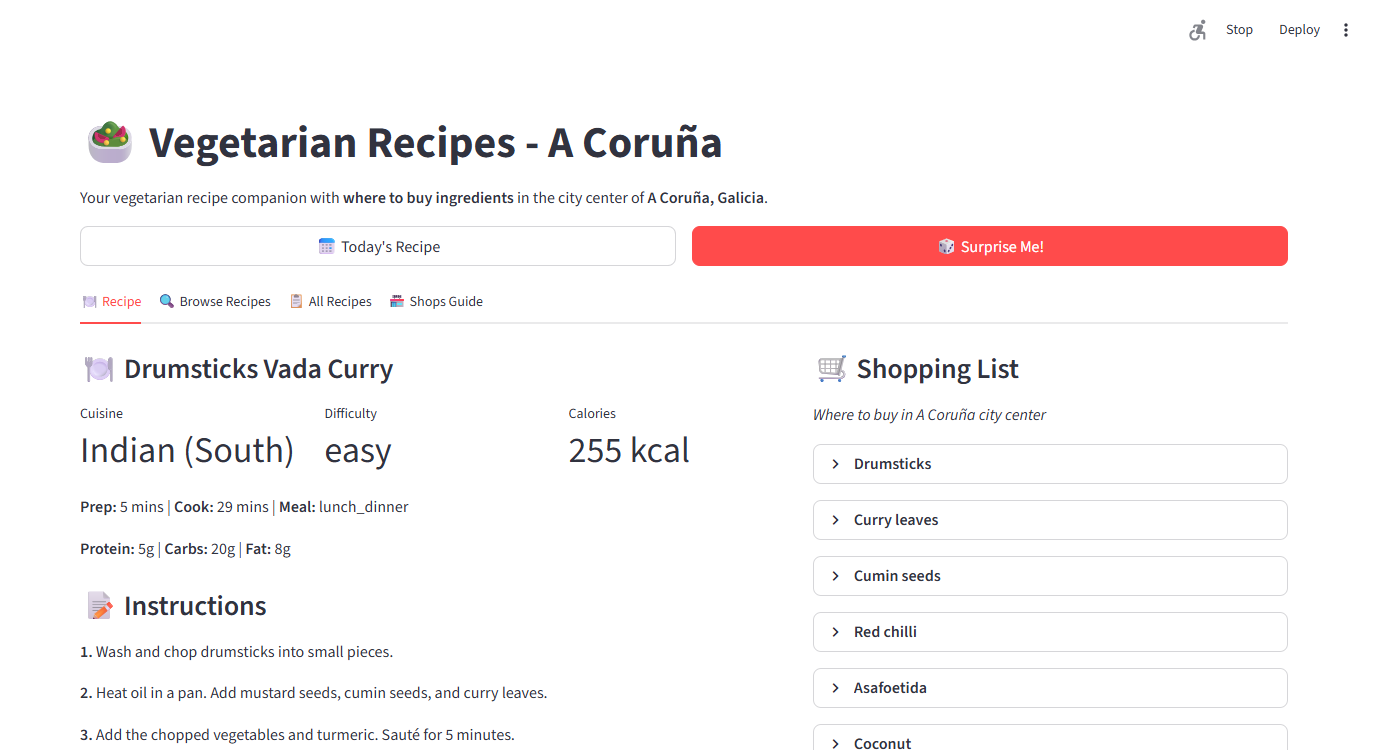
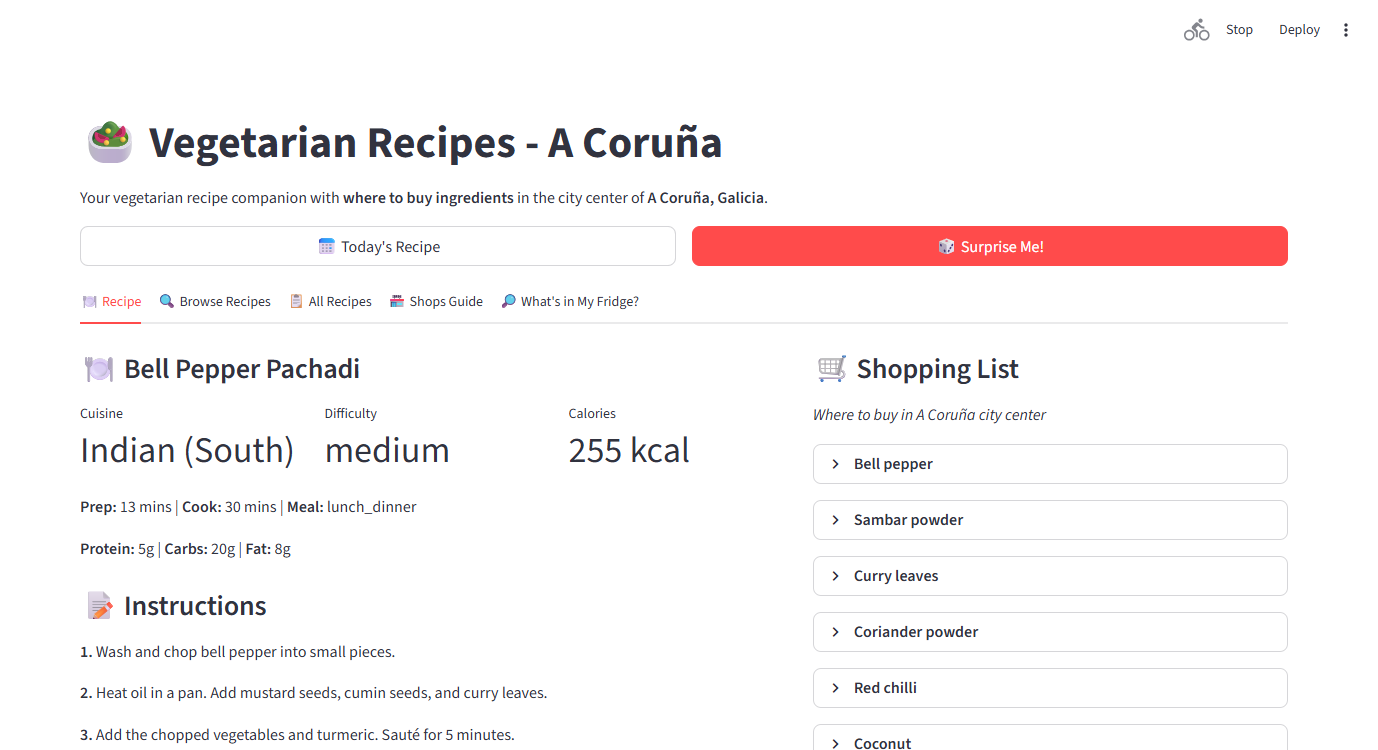
Add 'What's in My Fridge?' ingredient search (AI ingredient matcher)

diff --git a/app.py b/app.py
@@ -71,7 +71,7 @@ with col_right:
         st.session_state.recipe_source = "random"
         st.rerun()
 
-tab1, tab2, tab3, tab4 = st.tabs(["🍽️ Recipe", "🔍 Browse Recipes", "📋 All Recipes", "🏪 Shops Guide"])
+tab1, tab2, tab3, tab4, tab5 = st.tabs(["🍽️ Recipe", "🔍 Browse Recipes", "📋 All Recipes", "🏪 Shops Guide", "🔎 What's in My Fridge?"])
 
 with tab1:
     show_recipe(st.session_state.recipe, st.session_state.recipe_source)
@@ -151,6 +151,38 @@ with tab4:
                 with st.expander("What they sell"):
                     for s in sorted(set(shop['sells'])):
                         st.markdown(f"- {s}")
+
+with tab5:
+    st.subheader("🔎 What's in My Fridge?")
+    st.markdown("Tell me what ingredients you have, and I'll suggest recipes you can make!")
+
+    user_ings = st.text_input("Enter your ingredients (separated by spaces or commas)", placeholder="e.g. chickpeas spinach onion tomato garlic")
+    top_n = st.slider("Number of suggestions", 3, 20, 8)
+
+    if user_ings:
+        results = engine.find_recipes_by_ingredients(user_ings)
+        if not results:
+            st.warning("No recipes found with those ingredients. Try adding more common items like onion, garlic, tomato, rice.")
+        else:
+            st.success(f"Found {len(results)} matching recipes!")
+            for i, (score, matches, recipe) in enumerate(results[:top_n]):
+                match_pct = int(score * 100)
+                with st.container(border=True):
+                    cols = st.columns([1, 3, 1])
+                    with cols[0]:
+                        st.markdown(f"### {recipe['id']}")
+                    with cols[1]:
+                        st.markdown(f"**{recipe['name']}**  \n{recipe['cuisine']} | {recipe['meal_type']} | ⏱ {recipe['prep_time']} + {recipe['cook_time']}")
+                        st.markdown(f"**Ingredients you have:** {', '.join(recipe['ingredients'])}")
+                    with cols[2]:
+                        st.markdown(f"**{match_pct}%** match")
+                        st.progress(min(match_pct, 100))
+                        if st.button("View Recipe", key=f"fridge_view_{recipe['id']}"):
+                            st.session_state.recipe = recipe
+                            st.session_state.recipe_source = "fridge"
+                            st.rerun()
+    else:
+        st.info("Try: `chickpeas spinach onion tomato garlic` or `paneer spinach cream` or `lentils rice carrot`")
 
 st.sidebar.markdown("## 🥗 VegRecipe AI Agent")
 st.sidebar.markdown("Your daily vegetarian recipe companion for **A Coruña, Galicia**.")

diff --git a/main.py b/main.py
@@ -69,6 +69,21 @@ def main():
             if count > 1:
                 print(f"Showing {count} random recipes (use a number to get more, e.g. 'random 5')")
 
+        elif cmd == "with" or cmd == "by-ingredients":
+            if len(sys.argv) > 2:
+                user_input = " ".join(sys.argv[2:])
+                results = engine.find_recipes_by_ingredients(user_input)
+                if not results:
+                    print("No recipes found with those ingredients.")
+                else:
+                    print(f"\nFound {len(results)} matching recipes:\n")
+                    for i, (score, matches, recipe) in enumerate(results[:15], 1):
+                        match_pct = int(score * 100)
+                        print(f"{i:>2}. #{recipe['id']:>4} {recipe['name']:<40} {match_pct:>2}% match")
+                    print("\nUse `python main.py show <id>` to see full details.")
+            else:
+                print("Usage: python main.py with chickpeas spinach onion tomato")
+
         elif cmd == "date":
             if len(sys.argv) > 2:
                 try:
@@ -106,6 +121,8 @@ Usage:
   python main.py random [n]       Show random recipe(s) (e.g. random 3)
   python main.py cuisines         List available cuisines
   python main.py by-cuisine <c>   List recipes by cuisine
+  python main.py with <ings>      Find recipes by ingredients you have
+                                   e.g. python main.py with chickpeas spinach onion
 """)
 
 if __name__ == "__main__":

diff --git a/src/recipe_engine.py b/src/recipe_engine.py
@@ -65,6 +65,19 @@ class RecipeEngine:
             })
         return shopping
 
+    def find_recipes_by_ingredients(self, user_input):
+        raw_ings = [i.strip().lower() for i in user_input.replace(",", " ").split() if i.strip()]
+        scored = []
+        for r in self.recipes:
+            r_ings_lower = [i.lower() for i in r["ingredients"]]
+            matches = sum(1 for ui in raw_ings if any(ui in ri for ri in r_ings_lower))
+            if matches == 0:
+                continue
+            score = matches / max(len(r_ings_lower), 1)
+            scored.append((score, matches, r))
+        scored.sort(key=lambda x: (-x[0], -x[1]))
+        return scored
+
     def get_all_cuisines(self):
         cuisines = set()
         for r in self.recipes: